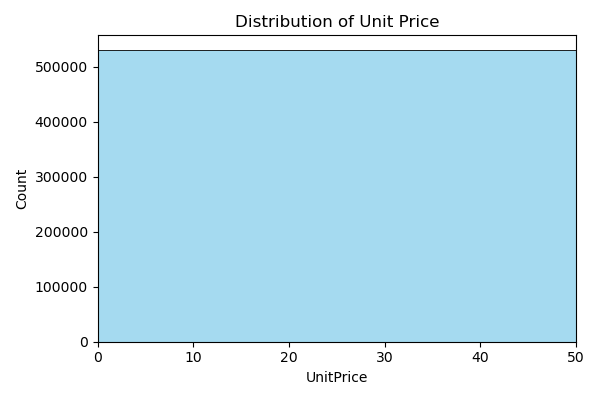
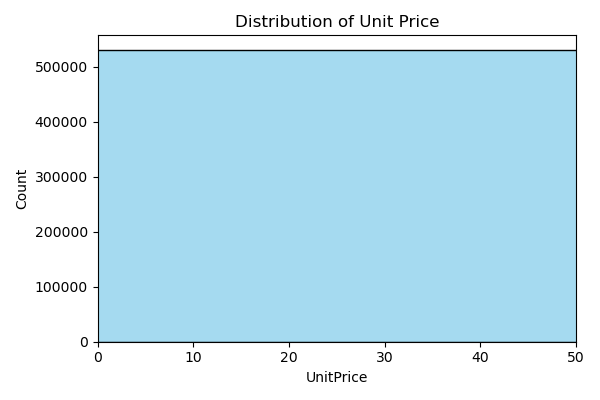
Assignment : Online Retail Analysis Update

Changed region(s): [[0.15, 0.12, 0.96, 0.15]]

diff --git a/Python/June/22-06-2025/Assignment/pdf_generator.py b/Python/June/22-06-2025/Assignment/pdf_generator.py
@@ -1,67 +1,88 @@
 from reportlab.lib.pagesizes import A4
 from reportlab.pdfgen import canvas
 from reportlab.lib.units import inch
-from pathlib import Path
+import os
 import textwrap
 
-# Setup output path
-BASE_DIR = Path(__file__).resolve().parent
-OUTPUT_DIR = BASE_DIR / "output"
-OUTPUT_DIR.mkdir(exist_ok=True)
 
 class PDFReport:
     def __init__(self, level: str, results: dict):
         self.level = level
         self.results = results
-        self.filename = OUTPUT_DIR / f"{level}_analysis_report.pdf"
+
+        # Fix: Create output path inside Assignment
+        base_dir = os.path.dirname(os.path.abspath(__file__))
+        self.output_dir = os.path.join(base_dir, "output")
+        os.makedirs(self.output_dir, exist_ok=True)
+
+        self.filename = os.path.join(self.output_dir, f"{level}_analysis_report.pdf")
 
     def generate_pdf(self):
-        c = canvas.Canvas(str(self.filename), pagesize=A4)
+        c = canvas.Canvas(self.filename, pagesize=A4)
         width, height = A4
         y = height - 40
 
+        # Title
         c.setFont("Helvetica-Bold", 20)
         c.drawCentredString(width / 2, y, f"{self.level} ANALYSIS")
         y -= 50
 
-        c.setFont("Helvetica", 12)
-        if "description" in self.results:
-            c.drawString(40, y, "Dataset Description:")
-            y -= 20
-            for line in self.wrap_text(self.results["description"], 90):
-                c.drawString(50, y, line)
-                y -= 15
+        # Dataset Description
+        c.setFont("Helvetica-Bold", 14)
+        c.drawString(40, y, "Dataset Description:")
+        y -= 20
+        for line in self.wrap_text(self.results.get("description", ""), 90):
+            c.setFont("Helvetica", 12)
+            c.drawString(50, y, line)
+            y -= 15
 
-        if "Facts" in self.results:
-            y -= 20
-            c.drawString(40, y, "Facts:")
-            for fact in self.results["Facts"]:
-                y -= 15
-                c.drawString(50, y, f"- {fact}")
+        # Facts
+        y -= 10
+        c.setFont("Helvetica-Bold", 14)
+        c.drawString(40, y, "Facts:")
+        y -= 20
+        for fact in self.results.get("Facts", []):
+            c.setFont("Helvetica", 12)
+            c.drawString(50, y, f"- {fact}")
+            y -= 15
 
-        if "Column_info" in self.results:
-            y -= 30
-            c.drawString(40, y, "Columns and Types:")
-            for col, dtype in self.results["Column_info"].items():
-                y -= 15
-                c.drawString(50, y, f"{col}: {dtype}")
-                if y < 100:
-                    c.showPage()
-                    y = height - 40
+        # Column Info
+        y -= 10
+        c.setFont("Helvetica-Bold", 14)
+        c.drawString(40, y, "Columns and Types:")
+        y -= 20
+        for col, dtype in self.results.get("Column_info", {}).items():
+            c.setFont("Helvetica", 12)
+            c.drawString(50, y, f"{col}: {dtype}")
+            y -= 15
+            if y < 100:
+                c.showPage()
+                y = height - 50
 
-        # Add plots for Level-2 and Level-3
+        # Plot Insertion: from Plot_1 to Plot_6
         for i in range(1, 7):
             plot_key = f"Plot_{i}"
-            if plot_key in self.results:
+            img_path = self.results.get(plot_key)
+
+            if img_path and os.path.exists(img_path):
                 c.showPage()
                 c.setFont("Helvetica-Bold", 14)
                 c.drawString(40, height - 50, f"Analysis Plot {i}")
-                img_path = self.results[plot_key]
-                c.drawImage(str(img_path), 40, height / 2 - 100, width=5.5 * inch, preserveAspectRatio=True)
+                try:
+                    c.drawImage(img_path, 40, height / 2 - 100, width=5.5 * inch, preserveAspectRatio=True)
+                except Exception as e:
+                    c.setFont("Helvetica", 12)
+                    c.drawString(40, height / 2, f"⚠ Error loading {img_path}: {e}")
+            else:
+                # Add placeholder for missing plots
+                c.showPage()
+                c.setFont("Helvetica-Bold", 14)
+                c.drawString(40, height - 50, f"Plot {i} Missing")
+                c.setFont("Helvetica", 12)
+                c.drawString(40, height - 70, f"{plot_key} not found in results or image path doesn't exist.")
 
         c.save()
-        print(f" PDF saved at: {self.filename}")
+        print(f"✅ PDF saved at: {self.filename}")
 
     def wrap_text(self, text, width):
         return textwrap.wrap(text, width)
-

diff --git a/Python/June/22-06-2025/Assignment/analyzer.py b/Python/June/22-06-2025/Assignment/analyzer.py
@@ -91,7 +91,7 @@ class DataAnalyzer:
         # Plot 5: Distribution of Unit Price
         plt.figure(figsize=(6, 4))
         plt.xlim(0, 50)
-        sns.barplot(x=invoice_revenue.index.astype(str), y=invoice_revenue.values, hue=invoice_revenue.index.astype(str), palette="Set3", legend=False)
+        sns.histplot(df['UnitPrice'], bins=50, color='skyblue')  # ✅ Correct plot for Unit Price distribution
         plt.title("Distribution of Unit Price")
         plt.tight_layout()
         plt.savefig(os.path.join(self.ASSETS_DIR, "unit_price_dist.png"))
